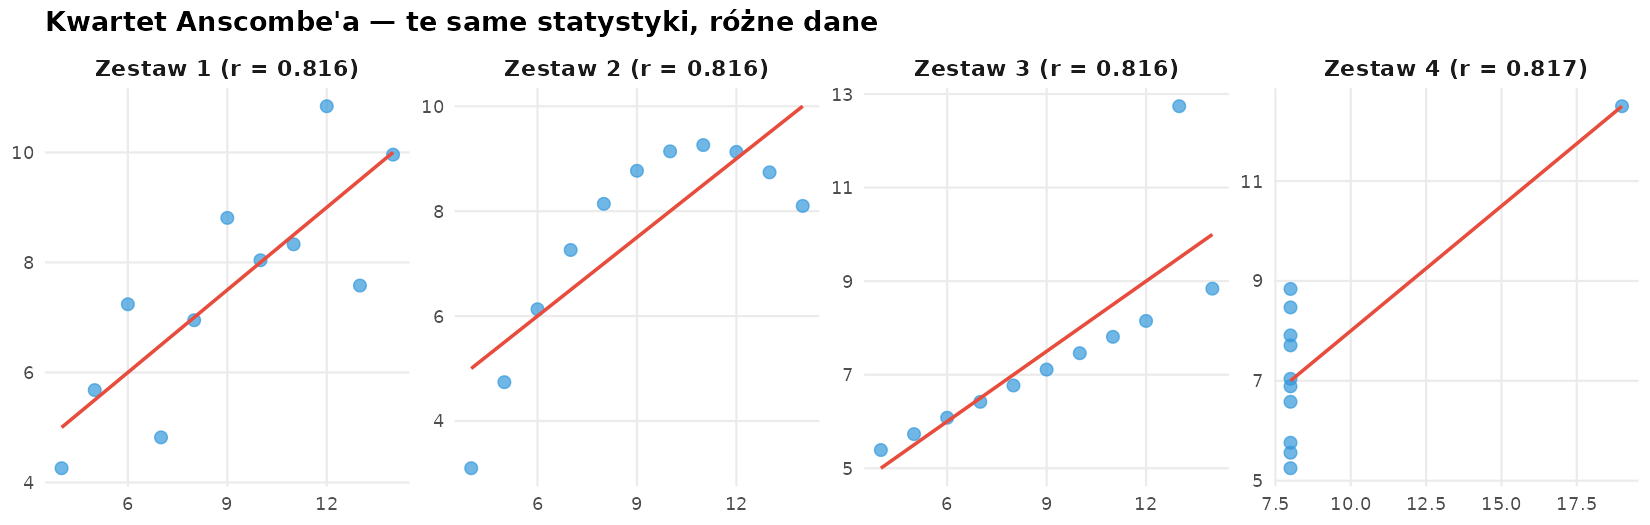
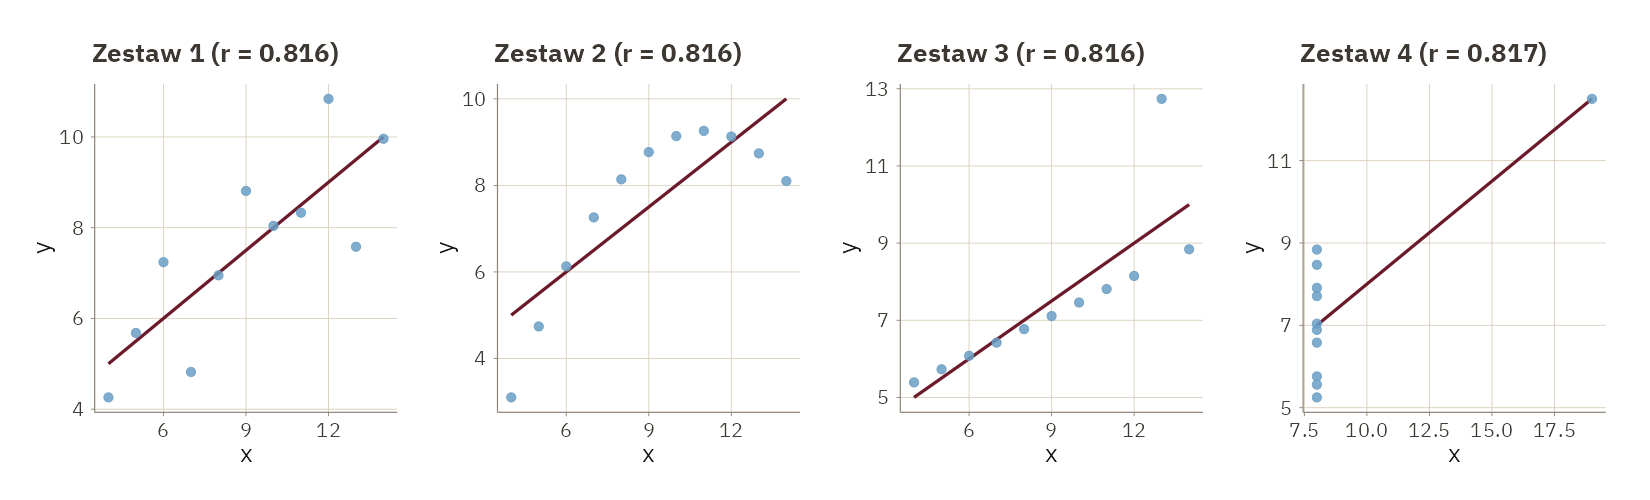
fix(statystyka 04–06): decyzje dydaktyczne w widgetach
- 04 Ryc. 3.2: n = 40 na stałe (jak w eksperymencie), p z symulacji w odczytach
- 04 Ryc. 10.5: η² i średnie w populacji oraz w próbie
- 05 Ryc. 2.1: osobne n grup A i B; iloraz wariancji bez ukrytego progu
- 05 symulacja χ²/Fisher: kategorie równe/rzadkie, kolor za mało/za dużo fałszywych alarmów
- 06: etykieta scenariusza z większym szumem, bez wyróżnienia RMSE w arenie,
  AIC/BIC w ściądze z k + 2 parametrami
- 04 Ryc. 6.6–6.7: obrazki ze skryptu regen_anscombe_assets.R (paleta UPWr, IBM Plex, bez tytułów)
- naprawione ucięte odczyty: Plecak/Biurko (04), Pokrycie (03)

diff --git a/TODO.md b/TODO.md
@@ -213,46 +213,16 @@ to stosują.
 - [ ] Widget krokowy (rozdz. 4): wygładzona krzywa wychodzi poza dziedzinę
   dla rozkładu wykładniczego i jednostajnego.
 
-### 04 — wnioskowanie statystyczne
-
-- [ ] Ryc. 3.2: statbox „Błąd I” pokazuje α z panelu mocy, a p-wartość jest
-  tylko w podpisie; suwak n zmienia tylko symulację pod H₀, obserwowana
-  różnica zawsze pochodzi z n = 40.
-- [ ] Ryc. 6.x: PNG `anscombe-quartet.png` i `correlation-nonlinear.png` mają
-  kropkę dziesiętną i nie mają skryptu generującego.
-- [ ] Ryc. 10.5: η² z próby (seed 202) wyraźnie mniejsze niż η² populacji
-  w tabeli; kolumna „x̄” pokazuje średnie populacji.
-
-### 05 — założenia testów
-
-- [ ] Ryc. 2.3: jedno n dla obu grup — przy równych n test Studenta i Welcha
-  dają identyczne t, więc panel nie pokazuje, kiedy Student zawodzi
-  (osobne suwaki n₁, n₂).
-- [ ] Ryc. 2.x: iloraz wariancji kolorowany ukrytym progiem 4.
-- [ ] Symulacja χ² a Fisher (rozdz. 03): tylko kategorie 50/50 (nie pokazuje
-  liberalnego χ² przy rzadkich kategoriach); konserwatywny Fisher
-  kolorowany jak „porażka”.
-
 ### 06 — regresja
 
 - [ ] Rozdział 00 „Mapa wykładu” jest pisany do prowadzącego („wybierz cel
   zajęć”). Przepisać na wstęp dla czytelnika: nawiązanie do korelacji
   (wykład 04) i założeń na resztach (05), jak czytać rdzeń i pogłębienia,
   dlaczego CASchools i pingwiny. Tabela tematów zostaje.
-- [ ] Ryc. 4.1 i 4.2 prawie się dublują (ten sam generator i modele; 4.2 ma
-  suwak n). W arenie (4.2) RMSE liczone na danych uczących, więc
-  wyróżnienie „najlepszej” wartości zawsze trafia w największy model.
-- [ ] Ryc. 1.2: scenariusz „Ten sam trend, mała próba” ma też większy szum
-  (σ = 5 zamiast 3) — etykieta sugeruje, że różni się tylko n.
-- [ ] Ryc. 1.4: na liście X zmienna 0/1 „grades” w rozdziale o regresji
-  prostej (nazwy w tabeli już jako etykiety).
 - [ ] Panel współliniowości (rozdz. 03): pokazuje tylko chmurę X₁–X₂,
   niestabilności β nie widać bez wielokrotnego losowania.
 - [ ] Rozdz. 05: widget liniowa a logistyczna pokazuje identyczną dokładność
   obu modeli (różnicę niesie tylko „poza [0, 1]”).
-- [ ] Ściąga: k w dwóch znaczeniach (liczba predyktorów w R² skorygowanym,
-  liczba parametrów w AIC/BIC) — ujednolicić z rozdz. 04 (k = liczba
-  predyktorów, kara 2(k + 2)).
 - [ ] Quiz interpretacji b₁ w jednostkach w `ch1_liniowa.R`, sekcja
   `ch1-caschool`: „read ~ income”, b₁ = 1,88 — co znaczy wzrost dochodu
   o 1 tys. USD? Dystraktory: mylone jednostki i skale.
